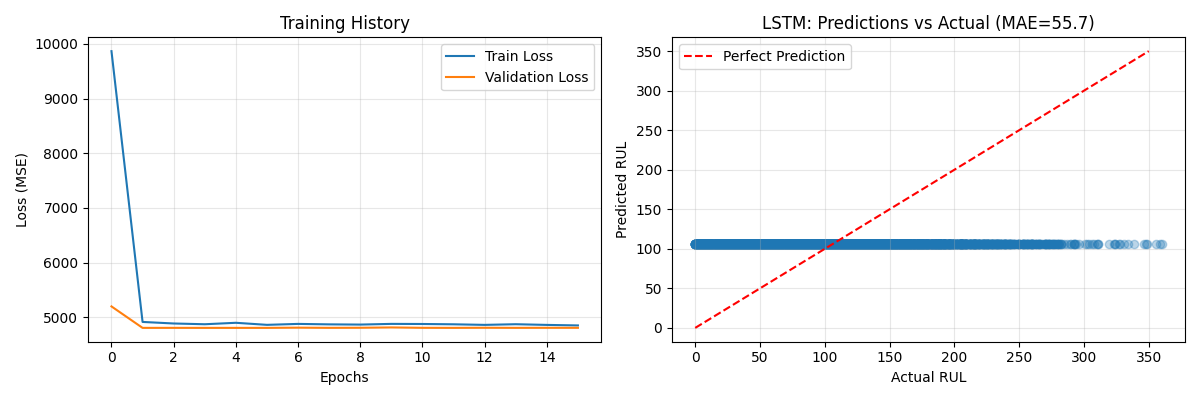
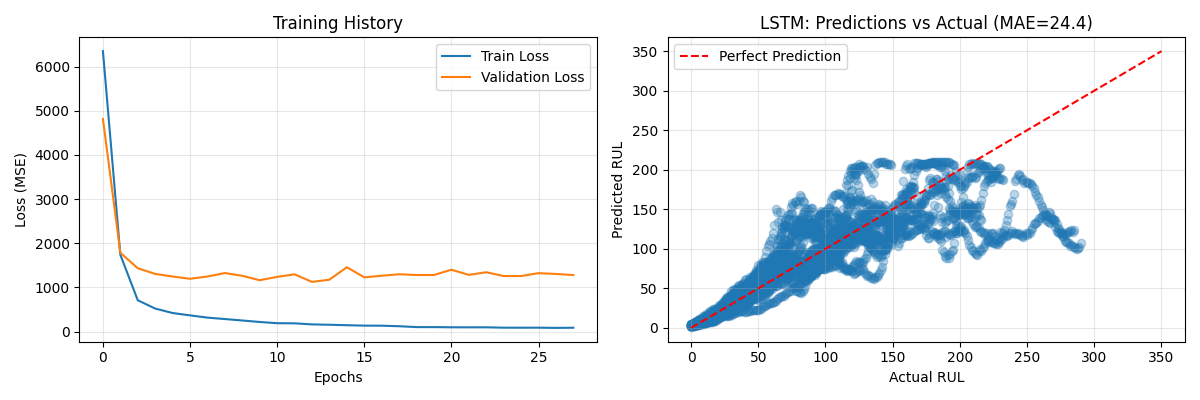
Fix LSTM sequence boundary generation and test data scaling bugs

diff --git a/lstm.py b/lstm.py
@@ -1,10 +1,10 @@
-import randomforest
+
 import numpy as np
 import pandas as pd
 import tensorflow as tf
 from tensorflow.keras.models import Sequential
 from tensorflow.keras.layers import LSTM, Dense, Dropout
-from tensorflow.keras.callbacks import EarlyStopping
+from tensorflow.keras.callbacks import EarlyStopping, ReduceLROnPlateau
 from sklearn.metrics import mean_absolute_error, mean_squared_error
 import matplotlib.pyplot as plt
 
@@ -15,51 +15,57 @@ print("="*60)
 # ============================================
 # STEP 1: Load the preprocessed data
 # ============================================
-print("\n Loading data...")
+print("\n Loading FD001 data...")
 
-X_train = pd.read_csv('C:/Users/krish/OneDrive/Desktop/sem2 projects/aiml/fig/X_train.csv')
-X_test = pd.read_csv('C:/Users/krish/OneDrive/Desktop/sem2 projects/aiml/fig/X_test.csv')
-y_train = pd.read_csv('C:/Users/krish/OneDrive/Desktop/sem2 projects/aiml/fig/y_train.csv')
-y_test = pd.read_csv('C:/Users/krish/OneDrive/Desktop/sem2 projects/aiml/fig/y_test.csv')
+# Column names for raw data
+column_names = [
+    'unit_number', 'time_in_cycles', 'setting_1', 'setting_2', 'setting_3',
+    'sensor_1', 'sensor_2', 'sensor_3', 'sensor_4', 'sensor_5',
+    'sensor_6', 'sensor_7', 'sensor_8', 'sensor_9', 'sensor_10',
+    'sensor_11', 'sensor_12', 'sensor_13', 'sensor_14', 'sensor_15',
+    'sensor_16', 'sensor_17', 'sensor_18', 'sensor_19', 'sensor_20',
+    'sensor_21'
+]
+features = ['setting_1', 'setting_2', 'setting_3'] + [f'sensor_{i}' for i in range(1, 22)]
 
-print(f"X_train shape: {X_train.shape}")
-print(f"X_test shape: {X_test.shape}")
-print(f"y_train shape: {y_train.shape}")
-print(f"y_test shape: {y_test.shape}")
+train_df = pd.read_csv('data/raw/train_FD001.txt', sep=r'\s+', names=column_names, engine='python')
+max_cycles = train_df.groupby('unit_number')['time_in_cycles'].max().reset_index()
+max_cycles.columns = ['unit_number', 'max_cycle']
+train_df = train_df.merge(max_cycles, on='unit_number', how='left')
+train_df['RUL'] = train_df['max_cycle'] - train_df['time_in_cycles']
 
-# ============================================
-# STEP 2: Create sequences for LSTM
-# ============================================
-print("\n Creating sequences for LSTM...")
+X_train = train_df[features].values
+y_train = train_df['RUL'].values
 
-def create_sequences(X, y, seq_length=50):
-    """
-    Convert data into sequences for LSTM
-    
-    Example:
-    Input: 100 cycles of data
-    Output: 51 sequences (each of length 50)
-    Sequence 1: cycles 0-49 → predict cycle 50
-    Sequence 2: cycles 1-50 → predict cycle 51
-    etc.
-    """
-    X_seq, y_seq = [], []
-    
-    for i in range(len(X) - seq_length):
-        X_seq.append(X.iloc[i:i+seq_length].values)
-        y_seq.append(y.iloc[i+seq_length].values[0])
-    
-    return np.array(X_seq), np.array(y_seq)
+from sklearn.preprocessing import StandardScaler
+scaler = StandardScaler()
+X_train_scaled = scaler.fit_transform(X_train)
+train_df_scaled = pd.DataFrame(X_train_scaled, columns=features)
+train_df_scaled['unit_number'] = train_df['unit_number'].values
 
-# Create sequences
 seq_length = 50
-X_train_seq, y_train_seq = create_sequences(X_train, y_train, seq_length)
-X_test_seq, y_test_seq = create_sequences(X_test, y_test, seq_length)
+X_seq, y_seq = [], []
+for engine_id in train_df_scaled['unit_number'].unique():
+    engine_idx = train_df_scaled['unit_number'] == engine_id
+    X_engine = X_train_scaled[engine_idx]
+    y_engine = y_train[engine_idx]
+    
+    if len(X_engine) > seq_length:
+        for i in range(len(X_engine) - seq_length):
+            X_seq.append(X_engine[i:i+seq_length])
+            y_seq.append(y_engine[i+seq_length])
 
-print(f"X_train_seq shape: {X_train_seq.shape}")  # (samples, 50, 24)
+X_seq = np.array(X_seq)
+y_seq = np.array(y_seq)
+
+split_idx = int(len(X_seq) * 0.8)
+X_train_seq = X_seq[:split_idx]
+X_test_seq = X_seq[split_idx:]
+y_train_seq = y_seq[:split_idx]
+y_test_seq = y_seq[split_idx:]
+
+print(f"X_train_seq shape: {X_train_seq.shape}")
 print(f"X_test_seq shape: {X_test_seq.shape}")
-print(f"y_train_seq shape: {y_train_seq.shape}")
-print(f"y_test_seq shape: {y_test_seq.shape}")
 
 # ============================================
 # STEP 3: Build LSTM Model
@@ -96,16 +102,24 @@ print("   (This might take 2-5 minutes)")
 
 early_stop = EarlyStopping(
     monitor='val_loss',
-    patience=10,
+    patience=15,
     restore_best_weights=True
+)
+
+reduce_lr = ReduceLROnPlateau(
+    monitor='val_loss', 
+    factor=0.5, 
+    patience=5, 
+    min_lr=1e-6, 
+    verbose=1
 )
 
 history = model.fit(
     X_train_seq, y_train_seq,
-    epochs=50,
+    epochs=100,
     batch_size=32,
     validation_split=0.2,
-    callbacks=[early_stop],
+    callbacks=[early_stop, reduce_lr],
     verbose=1
 )
 
@@ -126,18 +140,8 @@ print(f"Mean Absolute Error (MAE): {mae_lstm:.2f} cycles")
 print(f"Root Mean Square Error (RMSE): {rmse_lstm:.2f} cycles")
 
 # ============================================
-# STEP 7: Compare with Random Forest
+# STEP 7: Save the model
 # ============================================
-print("\n COMPARISON:")
-print(f"Random Forest MAE: 29.70 cycles")
-print(f"LSTM MAE: {mae_lstm:.2f} cycles")
-
-if mae_lstm < randomforest.mae_rf:
-    improvement = randomforest.mae_rf - mae_lstm
-    print(f" LSTM is better by {improvement:.2f} cycles!")
-else:
-    worse = mae_lstm - randomforest.mae_rf
-    print(f" Random Forest is better by {worse:.2f} cycles")
 
 # ============================================
 # STEP 8: Save the model

diff --git a/lstmfinetune.py b/lstmfinetune.py
@@ -6,7 +6,7 @@ import tensorflow as tf
 from tensorflow.keras.models import Sequential, load_model, clone_model
 from tensorflow.keras.layers import LSTM, Dense, Dropout
 from tensorflow.keras.optimizers import Adam
-from tensorflow.keras.callbacks import EarlyStopping
+from tensorflow.keras.callbacks import EarlyStopping, ReduceLROnPlateau
 from sklearn.metrics import mean_absolute_error, mean_squared_error
 from sklearn.preprocessing import StandardScaler
 
@@ -48,7 +48,7 @@ def create_test_sequences(X, seq_length=SEQ_LENGTH):
         padding = np.tile(X[0], (seq_length - len(X), 1))
         return np.array([np.vstack([padding, X])])
 
-def load_and_prepare_data(dataset_name, is_training=True):
+def load_and_prepare_data(dataset_name, is_training=True, scaler=None):
     """Load raw data, calculate RUL, scale features"""
     
     if is_training:
@@ -72,8 +72,22 @@ def load_and_prepare_data(dataset_name, is_training=True):
         scaler = StandardScaler()
         X_scaled = scaler.fit_transform(X)
         
-        # Create sequences
-        X_seq, y_seq = create_sequences(X_scaled, y, SEQ_LENGTH)
+        # Create sequences grouped by engine
+        X_seq, y_seq = [], []
+        engines = df['unit_number'].unique()
+        
+        for engine_id in engines:
+            engine_idx = df['unit_number'] == engine_id
+            X_engine = X_scaled[engine_idx]
+            y_engine = y[engine_idx].values
+            
+            if len(X_engine) > SEQ_LENGTH:
+                for i in range(len(X_engine) - SEQ_LENGTH):
+                    X_seq.append(X_engine[i:i+SEQ_LENGTH])
+                    y_seq.append(y_engine[i+SEQ_LENGTH])
+                    
+        X_seq = np.array(X_seq)
+        y_seq = np.array(y_seq)
         
         # Split into train/validation (80/20)
         split_idx = int(len(X_seq) * 0.8)
@@ -107,6 +121,9 @@ def load_and_prepare_data(dataset_name, is_training=True):
         for engine_id in engines:
             engine_data = df[df['unit_number'] == engine_id]
             engine_features = engine_data[features].values
+            
+            if scaler is not None:
+                engine_features = scaler.transform(engine_features)
             
             # Get last SEQ_LENGTH cycles
             if len(engine_features) >= SEQ_LENGTH:
@@ -167,7 +184,7 @@ for dataset in ['FD002', 'FD003', 'FD004']:
     X_train_seq, X_val_seq, y_train_seq, y_val_seq, scaler = load_and_prepare_data(dataset, is_training=True)
     
     # Load test data
-    X_test_seq, y_test = load_and_prepare_data(dataset, is_training=False)
+    X_test_seq, y_test = load_and_prepare_data(dataset, is_training=False, scaler=scaler)
     
     # Clone base model
     fine_tuned_model = clone_model(base_model)
@@ -176,17 +193,18 @@ for dataset in ['FD002', 'FD003', 'FD004']:
     # Recompile with lower learning rate
     fine_tuned_model.compile(optimizer=Adam(learning_rate=0.0001), loss='mse', metrics=['mae'])
     
-    # Early stopping
-    early_stop = EarlyStopping(monitor='val_loss', patience=10, restore_best_weights=True)
+    # Callbacks for better fine-tuning
+    early_stop = EarlyStopping(monitor='val_loss', patience=15, restore_best_weights=True)
+    reduce_lr = ReduceLROnPlateau(monitor='val_loss', factor=0.5, patience=5, min_lr=1e-6, verbose=1)
     
     print(f"Fine-tuning on {dataset}...")
     history = fine_tuned_model.fit(
         X_train_seq, y_train_seq,
-        epochs=30,
+        epochs=50,
         batch_size=32,
         validation_data=(X_val_seq, y_val_seq),
-        callbacks=[early_stop],
-        verbose=0
+        callbacks=[early_stop, reduce_lr],
+        verbose=1
     )
     
     # Evaluate